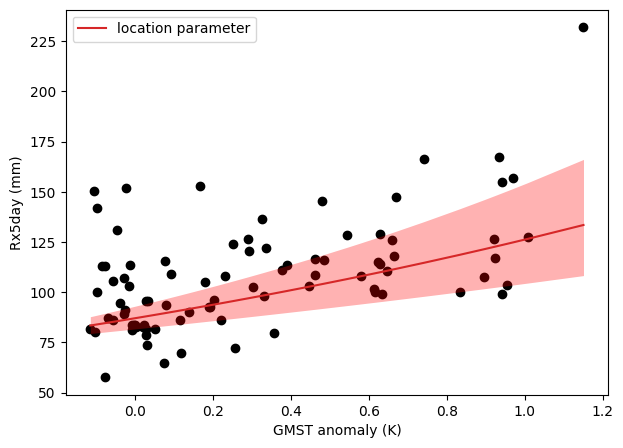
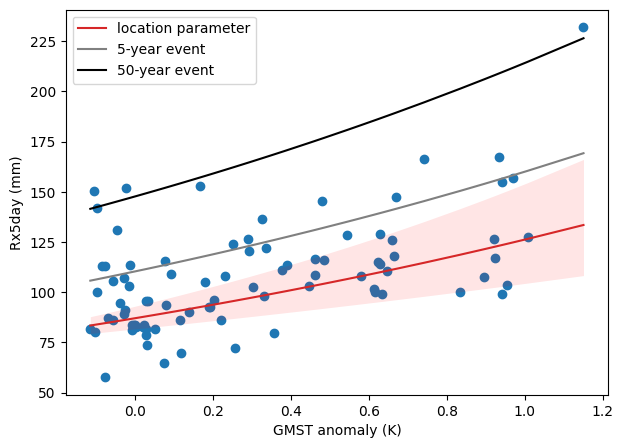
refine plots

diff --git a/docs/project_ppt/slides.tex b/docs/project_ppt/slides.tex
@@ -29,7 +29,7 @@
 }
 
 \institute{
-    Numerical Methods and Data Analysis for Geoscience Course \\
+    Numerical Methods and Data Analysis in Geoscience Course \\
     Earth System Physics Section \\
     ICTP}
 \date{\today}
@@ -211,10 +211,13 @@
     \end{block}
 \end{frame}
 
-\subsection{Maximum likelihood estimation}
+\subsection{Maximum likelihood estimation (MLE)}
 \begin{frame}
     \begin{itemize}
-        \item Under the assumption that $Z_1, ..., Z_m$ are independent variables having the GEV distribution, the log-likelihood for the GEV parameters when $\xi \neq 0$ is
+        \item The principle of MLE is to choose the model with greatest likelihood. Assume that $Z_1, ..., Z_m$ are independent variables having the GEV distribution. The likelihood function is
+        \[ \ell(\mu, \sigma, \xi) = \prod_{i=1}^m P(\mu, \sigma, \xi \vert z_1, ..., z_m) \]
+        given independent realizations of $z_1, ..., z_m$. \pause
+        \item The log-likelihood for the GEV parameters is
         \[
         \ell(\mu,\sigma,\xi)=
         \begin{cases}
@@ -240,11 +243,8 @@
         & \xi=0,
         \end{cases}
         \]
-        subject to
-        \[
-        1+\xi\left(\frac{z_i-\mu}{\sigma}\right)>0,
-        \qquad i=1,\dots,m.
-        \]
+        subject to $1+\xi \left[ (z_i-\mu)/\sigma \right]>0, i=1,\dots,m.$
+        \pause
         \item We define estimated distribution parameters, $\hat{\mu}, \hat{\sigma}, \hat{\xi}$, as the solution to maximize $\ell(\mu, \sigma, \xi)$ given their respective domain.
         \item Here, I used \texttt{scipy.minimize} method to solve this numerically.
     \end{itemize}
@@ -299,7 +299,7 @@
     \end{itemize}
 
     \begin{columns}[T,onlytextwidth]
-    \column{0.45\textwidth}
+    \column{0.5\textwidth}
         \centering
         \includegraphics[width=\textwidth]{../figs/result_ts.png}
 
@@ -389,9 +389,9 @@
 \subsection{Remarks}
 \begin{frame}
     \begin{itemize}
-        \item The nonparametric bootstrap should be interpreted with caution as it underestimates the real uncertainties involved in the frequency models \citep{kysely2008}.
+        \item The non-parametric bootstrap should be interpreted with caution as it underestimates the real uncertainties involved in the frequency models \citep{kysely2008}.
         \item We can expand the non-stationary model to include climate variability, e.g ENSO and IOD.
-        \item Trend detection is not attribution! 
+        \item Trend detection is not attribution (to anthropogenic climate change)! 
         \begin{itemize}
             \item Detected trends may arise for a different reason than a change in global climate forcing.
             \item Attribution requires physical climate models that resolve the system dependent on prescribed external forcing.

diff --git a/scripts/project/evt_module.py b/scripts/project/evt_module.py
@@ -5,6 +5,8 @@ from scipy.optimize import minimize
 from scipy.stats import genextreme, skew
 import matplotlib.pyplot as plt
 
+np.random.seed(42) # set seed for reproducibility
+
 #%% Data generator
 
 def read_annual_maxima():
@@ -279,10 +281,10 @@ def plot_qq_nonstat(x, gmst, params_nonstat, ax=None):
 
     return ax
 
-def plot_data_vs_gmst(data: list, gmst: list, ax=None, label=None):
+def plot_data_vs_gmst(data: list, gmst: list, ax=None, label=None, color=None):
     if ax == None:
         _, ax = plt.subplots(figsize=(7,5))
-    ax.scatter(gmst, data, label=label, color='k')
+    ax.scatter(gmst, data, label=label, color=color)
     ax.set_xlabel("GMST anomaly (K)")
     ax.set_ylabel("Rx5day (mm)")
     

diff --git a/scripts/project/plot_event_domain.py b/scripts/project/plot_event_domain.py
@@ -123,7 +123,7 @@ ax.add_feature(
 )
 
 # CYCLONE TRACK
-ax.plot(df['lon'], df['lat'], '--', color='k', label='Cyclone Track')
+ax.plot(df['lon'], df['lat'], '--', color='k', label='cyclone track')
 
 
 # EVENT BOX
@@ -145,7 +145,7 @@ ax.plot(
     ],
     color="red",
     linewidth=2.5,
-    label="Defined event",
+    label="defined event",
     transform=ccrs.PlateCarree(),
     zorder=5
 )
